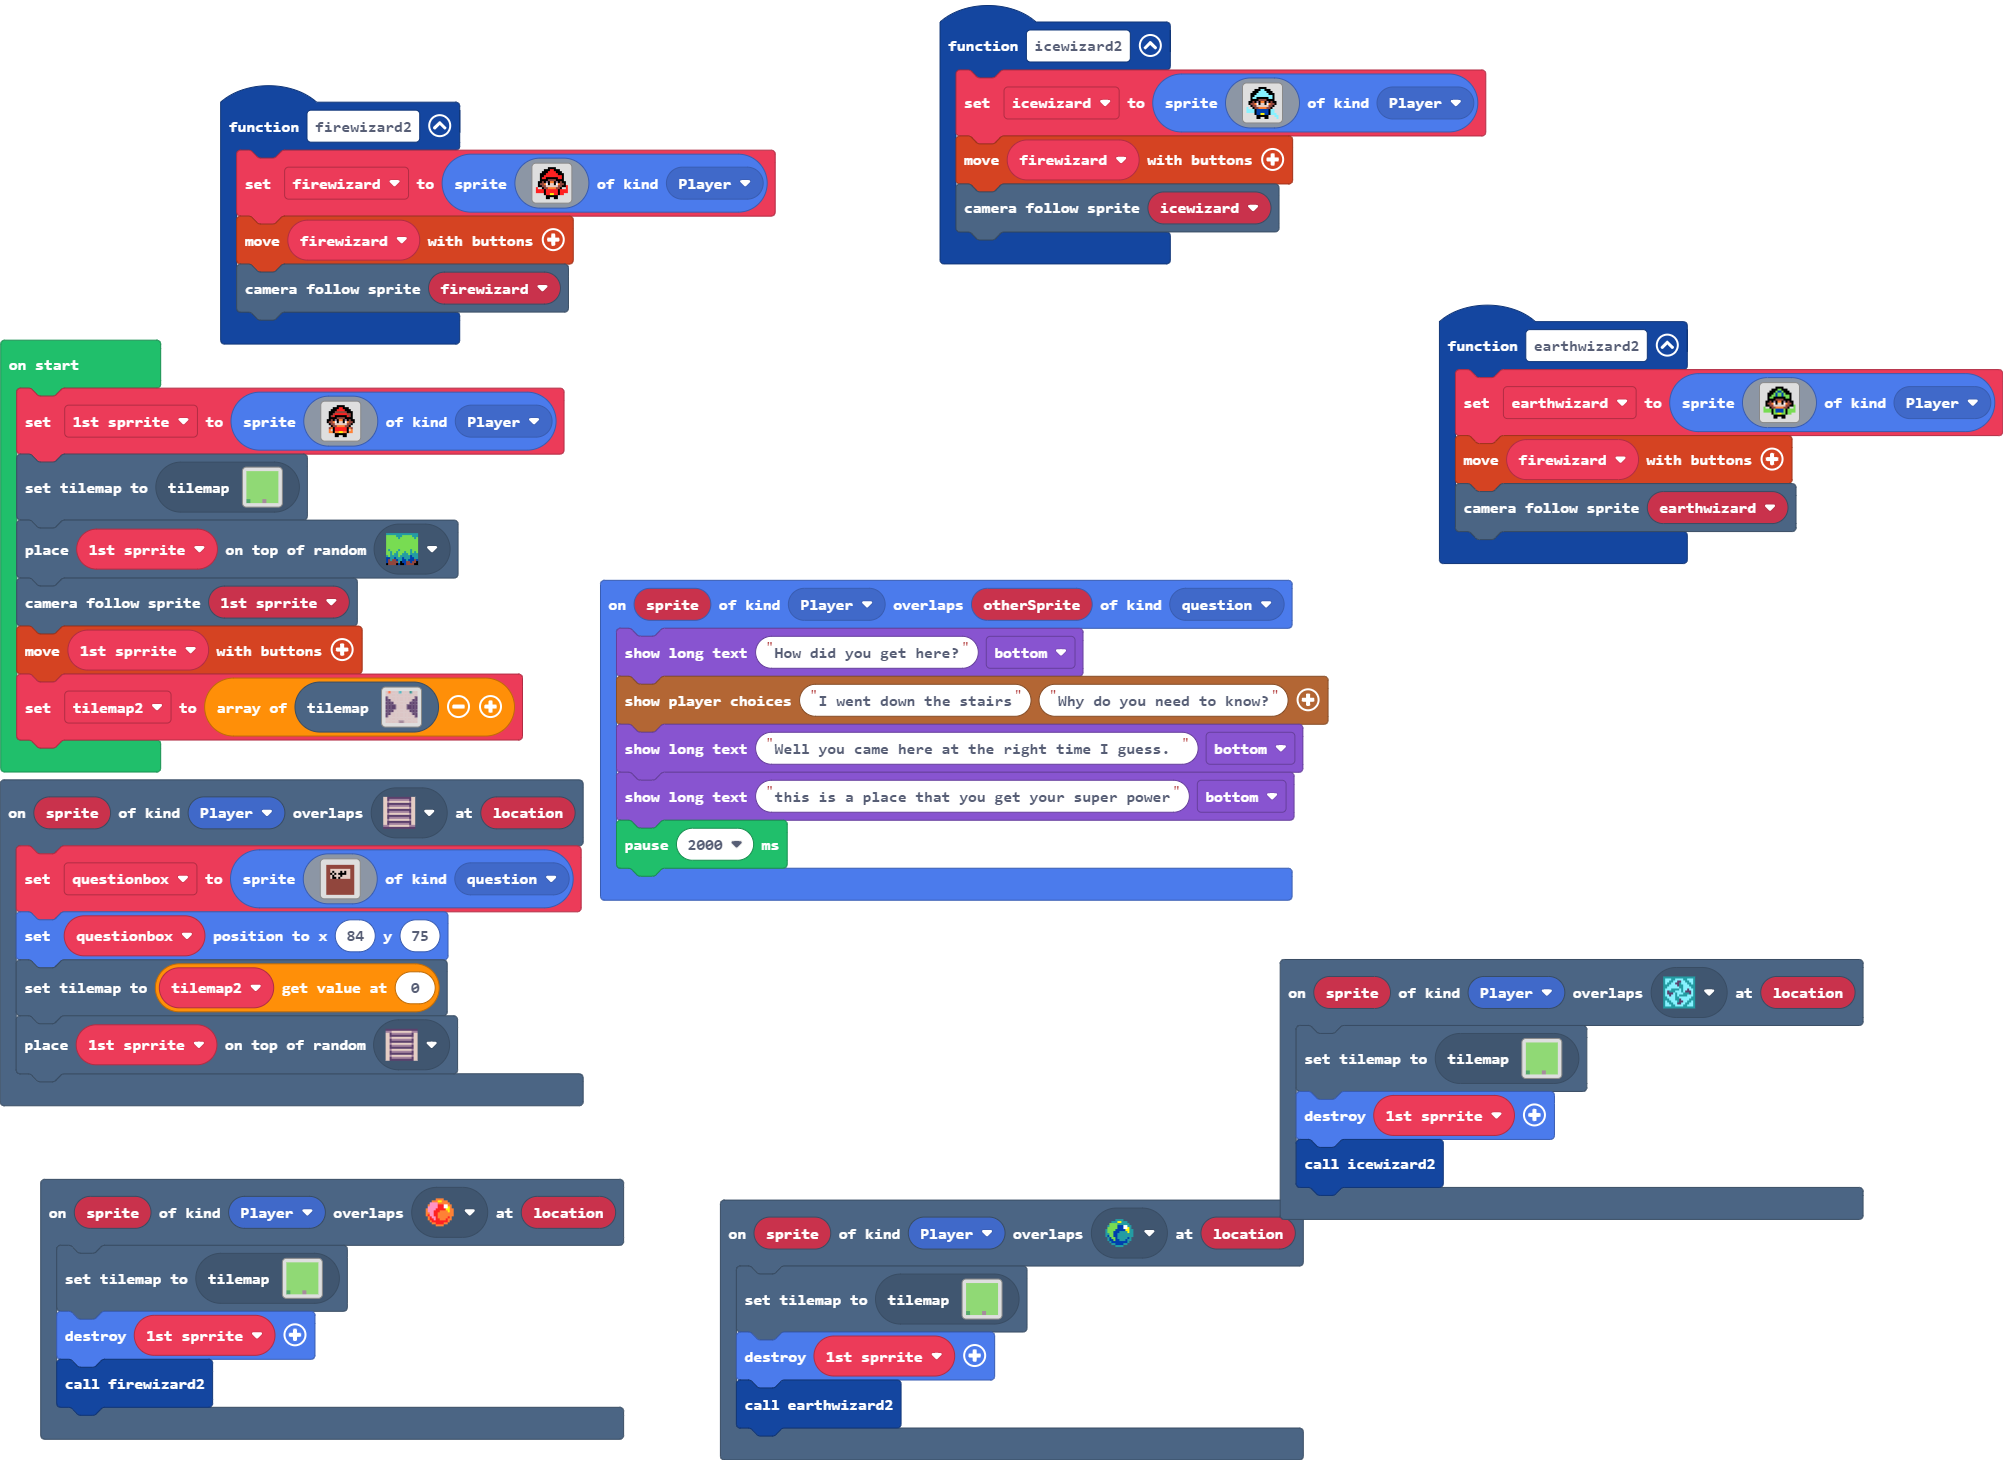
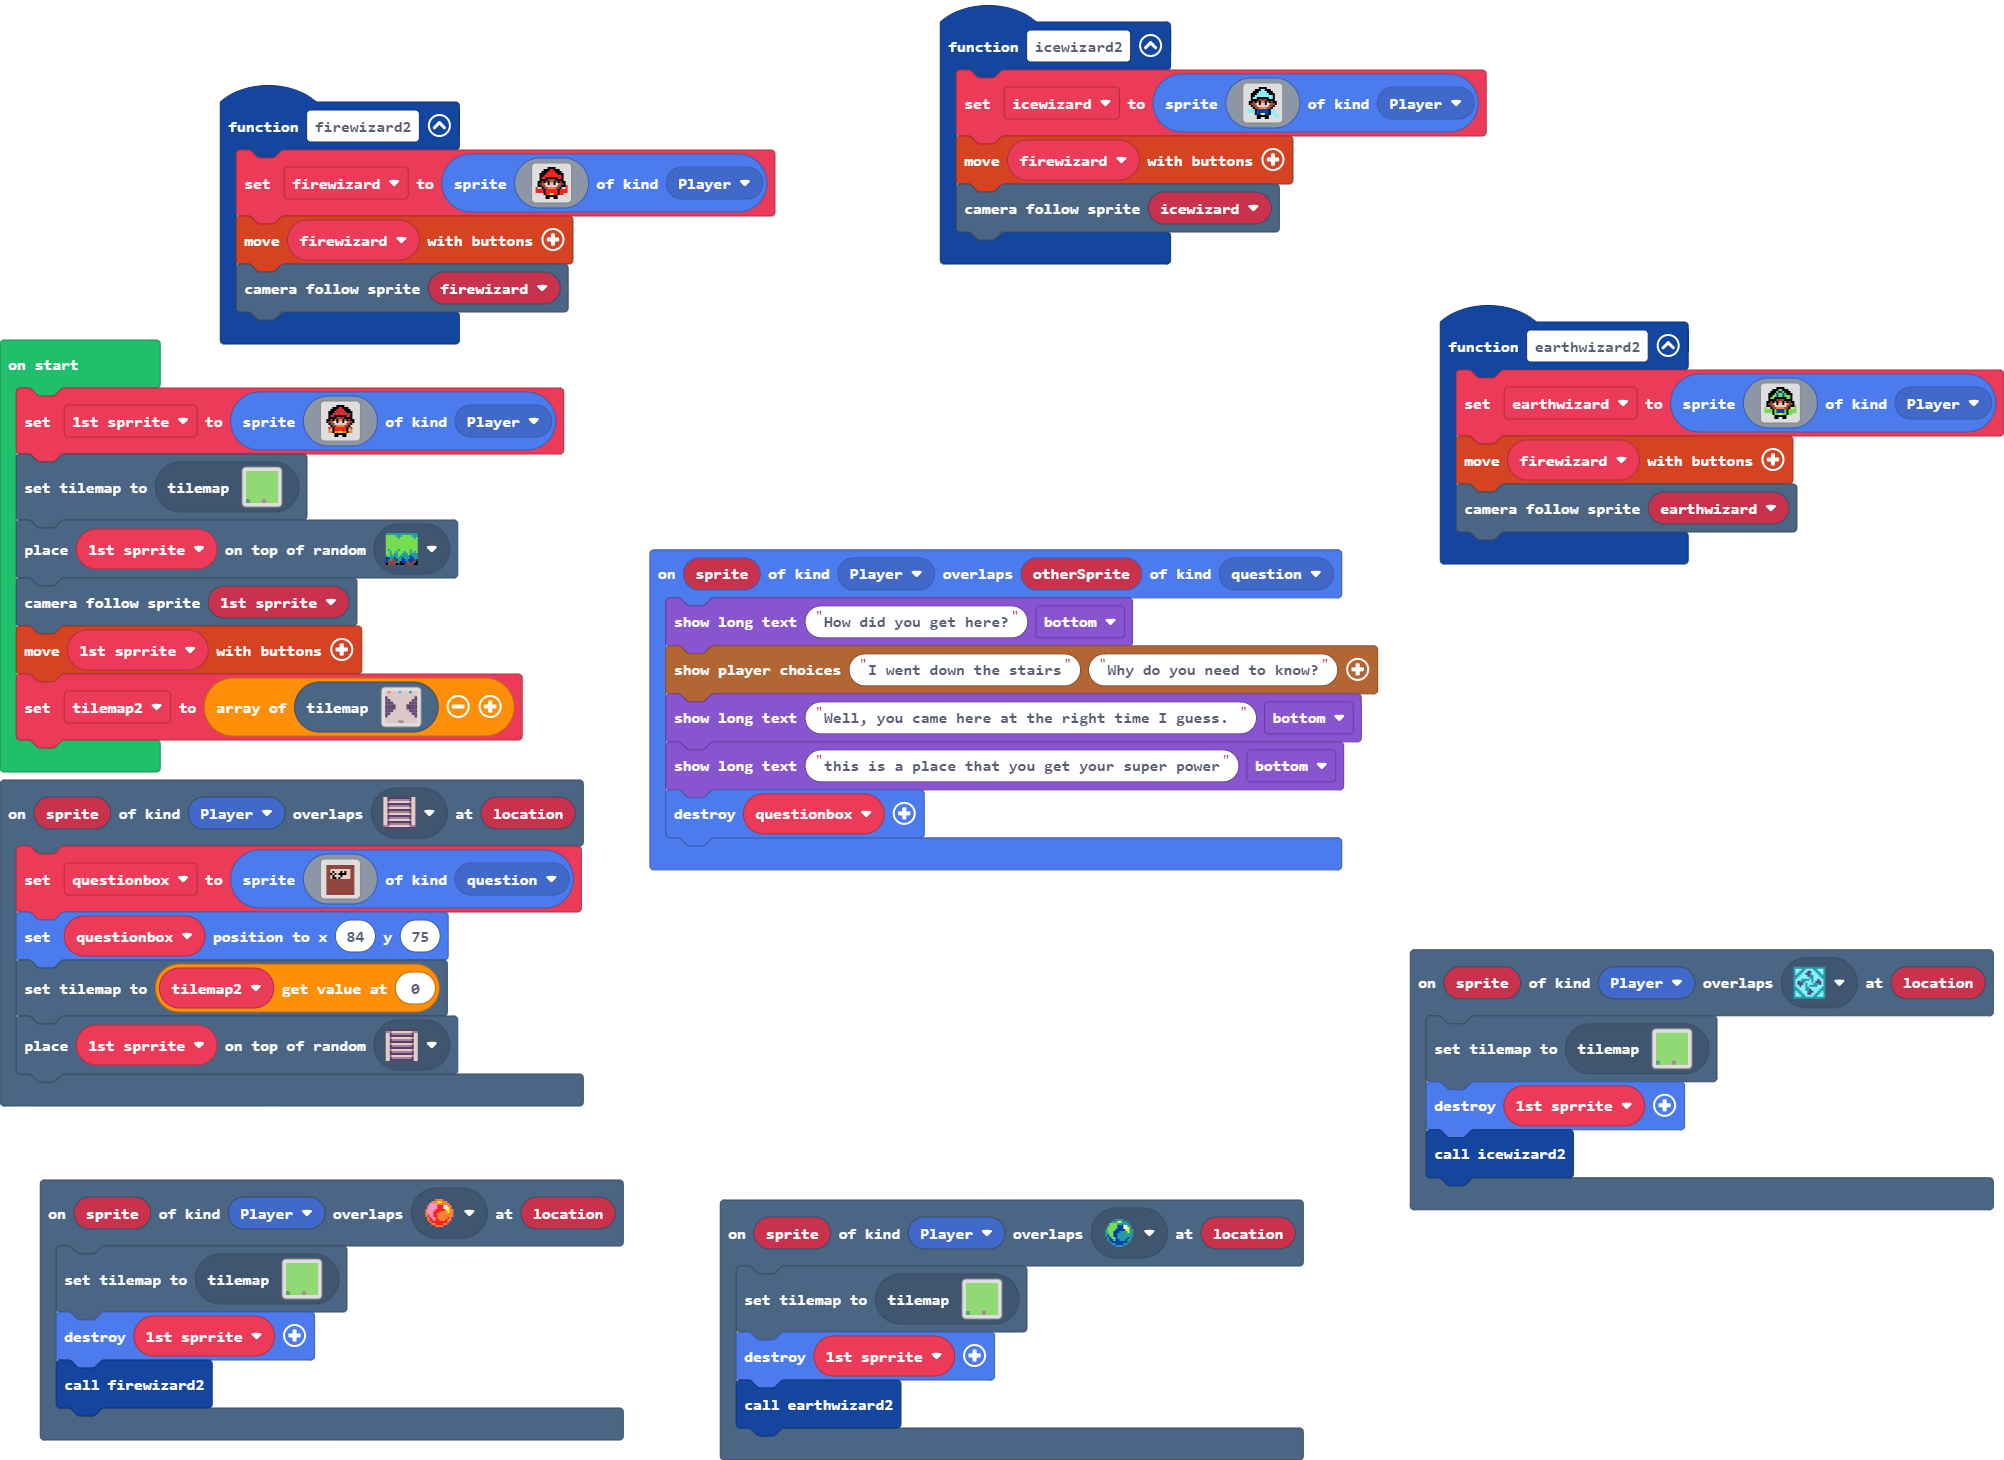
Update main.blocks, main.ts, tilemap.g.jres, tilemap.g.ts

diff --git a/tilemap.g.ts b/tilemap.g.ts
@@ -291,44 +291,6 @@ namespace myTiles {
 . . . . . . . . . . . . . . . . 
 . . . . . . . . . . . . . . . . 
 `, [myTiles.transparency16], TileScale.Sixteen);
-            case "level15":
-            case "level15":return tiles.createTilemap(hex`1000100000000000000000000000000000000000000000000000000000000000000000000000000000000000000000000000000000000000000000000000000000000000000000000000000000000000000000000000000000000000000000000000000000000000000000000000000000000000000000000000000000000000000000000000000000000000000000000000000000000000000000000000000000000000000000000000000000000000000000000000000000000000000000000000000000000000000000000000000000000000000000000000000000000000000000000000000000000000000000000000000000000000000000000000000000000000`, img`
-. . . . . . . . . . . . . . . . 
-. . . . . . . . . . . . . . . . 
-. . . . . . . . . . . . . . . . 
-. . . . . . . . . . . . . . . . 
-. . . . . . . . . . . . . . . . 
-. . . . . . . . . . . . . . . . 
-. . . . . . . . . . . . . . . . 
-. . . . . . . . . . . . . . . . 
-. . . . . . . . . . . . . . . . 
-. . . . . . . . . . . . . . . . 
-. . . . . . . . . . . . . . . . 
-. . . . . . . . . . . . . . . . 
-. . . . . . . . . . . . . . . . 
-. . . . . . . . . . . . . . . . 
-. . . . . . . . . . . . . . . . 
-. . . . . . . . . . . . . . . . 
-`, [myTiles.transparency16], TileScale.Sixteen);
-            case "level16":
-            case "level16":return tiles.createTilemap(hex`1000100000000000000000000000000000000000000000000000000000000000000000000000000000000000000000000000000000000000000000000000000000000000000000000000000000000000000000000000000000000000000000000000000000000000000000000000000000000000000000000000000000000000000000000000000000000000000000000000000000000000000000000000000000000000000000000000000000000000000000000000000000000000000000000000000000000000000000000000000000000000000000000000000000000000000000000000000000000000000000000000000000000000000000000000000000000000`, img`
-. . . . . . . . . . . . . . . . 
-. . . . . . . . . . . . . . . . 
-. . . . . . . . . . . . . . . . 
-. . . . . . . . . . . . . . . . 
-. . . . . . . . . . . . . . . . 
-. . . . . . . . . . . . . . . . 
-. . . . . . . . . . . . . . . . 
-. . . . . . . . . . . . . . . . 
-. . . . . . . . . . . . . . . . 
-. . . . . . . . . . . . . . . . 
-. . . . . . . . . . . . . . . . 
-. . . . . . . . . . . . . . . . 
-. . . . . . . . . . . . . . . . 
-. . . . . . . . . . . . . . . . 
-. . . . . . . . . . . . . . . . 
-. . . . . . . . . . . . . . . . 
-`, [myTiles.transparency16], TileScale.Sixteen);
         }
         return null;
     })

diff --git a/main.ts b/main.ts
@@ -27,9 +27,9 @@ scene.onOverlapTile(SpriteKind.Player, sprites.dungeon.stairNorth, function (spr
 sprites.onOverlap(SpriteKind.Player, SpriteKind.question, function (sprite, otherSprite) {
     game.showLongText("How did you get here?", DialogLayout.Bottom)
     story.showPlayerChoices("I went down the stairs", "Why do you need to know?")
-    game.showLongText("Well you came here at the right time I guess. ", DialogLayout.Bottom)
+    game.showLongText("Well, you came here at the right time I guess. ", DialogLayout.Bottom)
     game.showLongText("this is a place that you get your super power", DialogLayout.Bottom)
-    pause(2000)
+    sprites.destroy(questionbox)
 })
 function earthwizard2 () {
     earthwizard = sprites.create(img`
